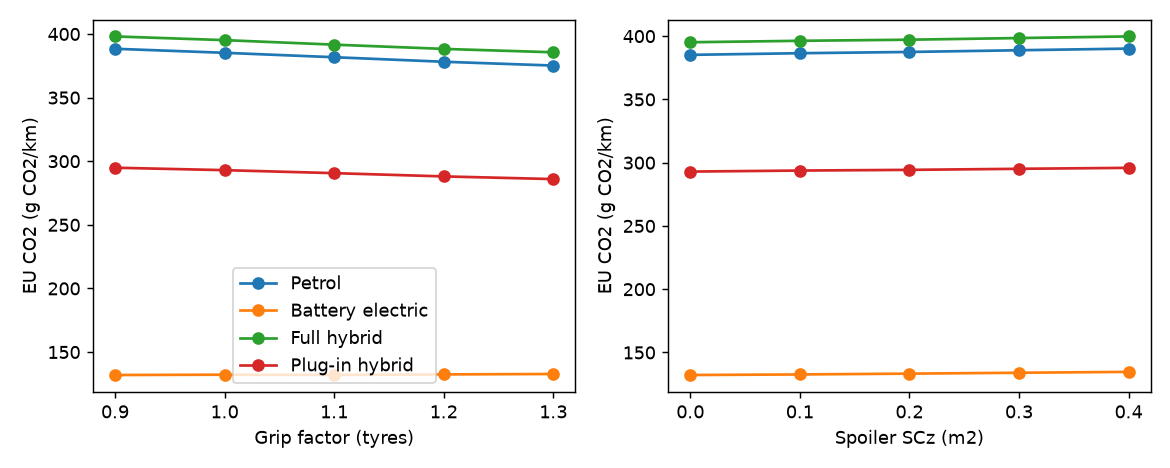
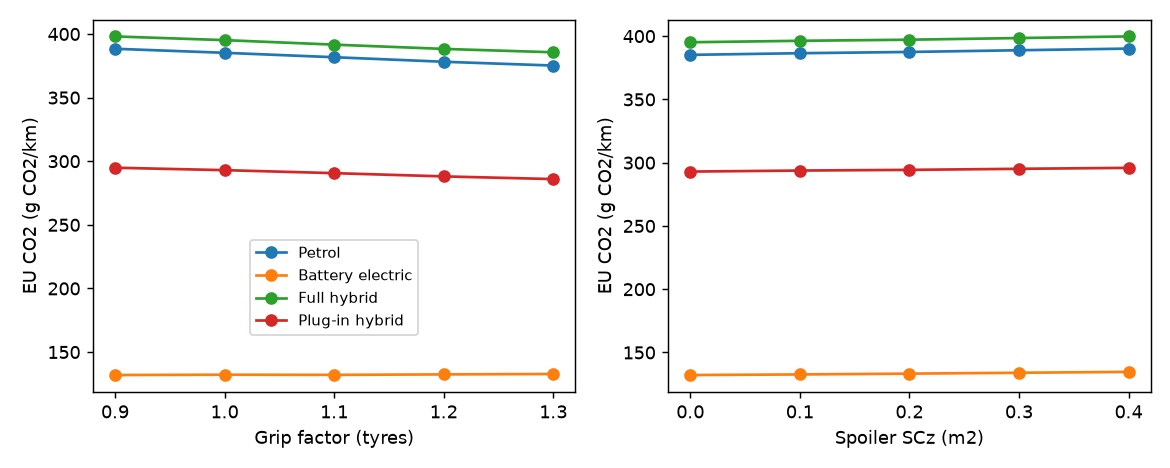
Draft the Study C slides in the group deck
Fills the Study C opener and slots C-1 to C-3 in docs/deck/slides.md as a
draft for the owner to rewrite. The only model number is a tag,
{co2.petrol.sport}.

The lap-time figure drew four identical lines under a four-car legend, so
only the last car showed. Every car drives the same petrol-generated lap, so
it now draws one line labelled as shared. The CO2 figure's legend sat on the
electric car's line and is moved into the empty band.

test_starter_file_parses required every field in slides.md to be empty, so
any filled slide failed it. It now checks that every slide id and field is
present.

Changed region(s): [[0.1846, 0.5085, 0.3692, 0.8376]]

diff --git a/pwt/cornering.py b/pwt/cornering.py
@@ -501,11 +501,22 @@ def figures(frame, comparison=None) -> None:
             (axes[0], "grip", "grip_factor", "Grip factor (tyres)"),
             (axes[1], "spoiler", "scz_m2", "Spoiler SCz (m2)"),
         ):
-            for car, d in frame[frame.variant == variant].groupby("powertrain", sort=False):
-                ax.plot(d[x], d[column], marker="o", label=POWERTRAIN_NAMES[car])
+            part = frame[frame.variant == variant]
+            if column == "lap_time_s":
+                # Every car drives the one lap the petrol car generates, so lap time is shared.
+                lap = part[part.powertrain == "petrol"].sort_values(x)
+                ax.plot(lap[x], lap[column], marker="o", color="#333333",
+                        label="Every car (one shared lap)")
+            else:
+                for car, d in part.groupby("powertrain", sort=False):
+                    ax.plot(d[x], d[column], marker="o", label=POWERTRAIN_NAMES[car])
             ax.set_xlabel(xlabel)
             ax.set_ylabel(label)
-        axes[0].legend()
+        if column == "lap_time_s":
+            axes[0].legend(loc="upper right")
+        else:
+            # The CO2 panels are empty between the plug-in hybrid and the electric car.
+            axes[0].legend(loc="center", bbox_to_anchor=(0.5, 0.28), fontsize="small")
         fig.tight_layout()
         fig.savefig(DOCS / name, dpi=130)
         plt.close(fig)

diff --git a/tests/test_deck_content.py b/tests/test_deck_content.py
@@ -40,9 +40,11 @@ def test_lap_positions():
     assert positions[-1] == CORNERS["finish"]
 
 
-def test_starter_file_parses():
-    assert load(Path("docs/deck/slides.md")) == {
-        slide.id: dict.fromkeys(slide.fields, "") for slide in SLIDES
+def test_slides_file_parses_with_every_slide_and_field():
+    """Owners fill fields in as they go, so only the ids and field names are fixed."""
+    content = load(Path("docs/deck/slides.md"))
+    assert {k: set(v) for k, v in content.items()} == {
+        slide.id: set(slide.fields) for slide in SLIDES
     }
 
 

diff --git a/docs/deck/slides.md b/docs/deck/slides.md
@@ -116,27 +116,38 @@ notes:
 
 ## C
 > Study C opener at Stavelot.
-title:
-notes:
+title: Corner speed
+notes: Study C asks how tyre grip and a rear spoiler change corner speed, and what that does to lap time and CO2 on the generated Francorchamps sport lap.
+Every car drives the lap the petrol car generates, in the storage-losses scenario.
+This is a draft by Claude for the study owner to rewrite.
 
 ## C-1
 > Study slot. figure: e.g. docs/study-c-lap-time.png, docs/study-c-co2.png.
-label:
-headline:
-figure:
-notes:
+label: Study C · Francorchamps sport, generated · lap time (s)
+headline: More grip shortens the lap; a spoiler slows it
+figure: docs/study-c-lap-time.png
+notes: Left, the tyre grip factor from 0.9 to 1.3 on the 12 corners with a set speed. Right, a spoiler from 0 to 0.4 m² of downforce area, with its added drag and mass.
+Corner speed grows with the square root of grip, so the car brakes less into each corner and has less speed to rebuild out of it.
+The template corners are all slow. Downforce grows with the square of speed, so it adds almost nothing there, while the spoiler's drag and mass cost time on every straight.
+The radii here are inferred from the template speeds at a grip of 0.7, the default method.
 
 ## C-2
-label:
-headline:
-figure:
-notes:
+label: Study C · Francorchamps sport, generated · EU CO2 (g CO2/km)
+headline: More grip cuts fuel-car CO2; the BEV barely moves
+figure: docs/study-c-co2.png
+notes: At baseline the petrol car emits {co2.petrol.sport} on this lap.
+Petrol, full hybrid and plug-in hybrid fall with grip and rise with spoiler size.
+The battery electric car recovers much of its braking energy, so braking less gains it little, but it still pays for the spoiler's drag.
+The order of the four cars does not change.
 
 ## C-3
-label:
-headline:
-figure:
-notes:
+label: Study C · spoiler minus tyres at the same lap time · g CO2/km
+headline: At equal lap time, the spoiler always emits more
+figure: docs/study-c-comparison.png
+notes: For each spoiler size, the tyre grip factor that gives the same lap time is found, and the two cars' CO2 is compared.
+The difference is positive for every car and for all three radius methods: inferred, fitted to the circuit outline, and the driver's line.
+Matching on lap time is a provisional rule. Matching on the average corner speed or on one reference corner could change the result.
+The spoiler's lift-to-drag ratio and its mass are unsourced assumptions. A more efficient wing, a much larger one or a faster track could change this.
 
 ## lim
 > Section opener at Bus Stop.

diff --git a/docs/superpowers/plans/2026-11-02-study-c-cornering.md b/docs/superpowers/plans/2026-11-02-study-c-cornering.md
@@ -10,7 +10,7 @@
 
 **Deadline:** results by Fri 20 Nov, slide draft by Sun 22 Nov, numbers frozen at TD2, Mon 30 Nov.
 
-**Status:** In progress, owner confirmed. Tasks 1, 3, 4, 5, 6 and 7 are completed as a third-pass draft (outline radii now fitted by least squares on a 5 m resample, with a driver's-line option; spoiler sources checked; lap-time-matched spoiler-vs-tyres comparison, all four powertrains, feasibility checks and limits); the Task 2 choices, final interpretation and Task 8 slides remain the owner's to confirm or rewrite. The dashboard page is built; results come from `python -m pwt.cornering`.
+**Status:** In progress, owner confirmed. Tasks 1, 3, 4, 5, 6 and 7 are completed as a third-pass draft (outline radii now fitted by least squares on a 5 m resample, with a driver's-line option; spoiler sources checked; lap-time-matched spoiler-vs-tyres comparison, all four powertrains, feasibility checks and limits); the Task 2 choices, final interpretation and Task 8 slides remain the owner's to confirm or rewrite. Draft Study C slides (opener and slots C-1 to C-3) are filled in `docs/deck/slides.md` for the owner to rewrite; the study's limits are only in the C-3 notes so far. The dashboard page is built; results come from `python -m pwt.cornering`.
 
 ## Global Constraints
 
